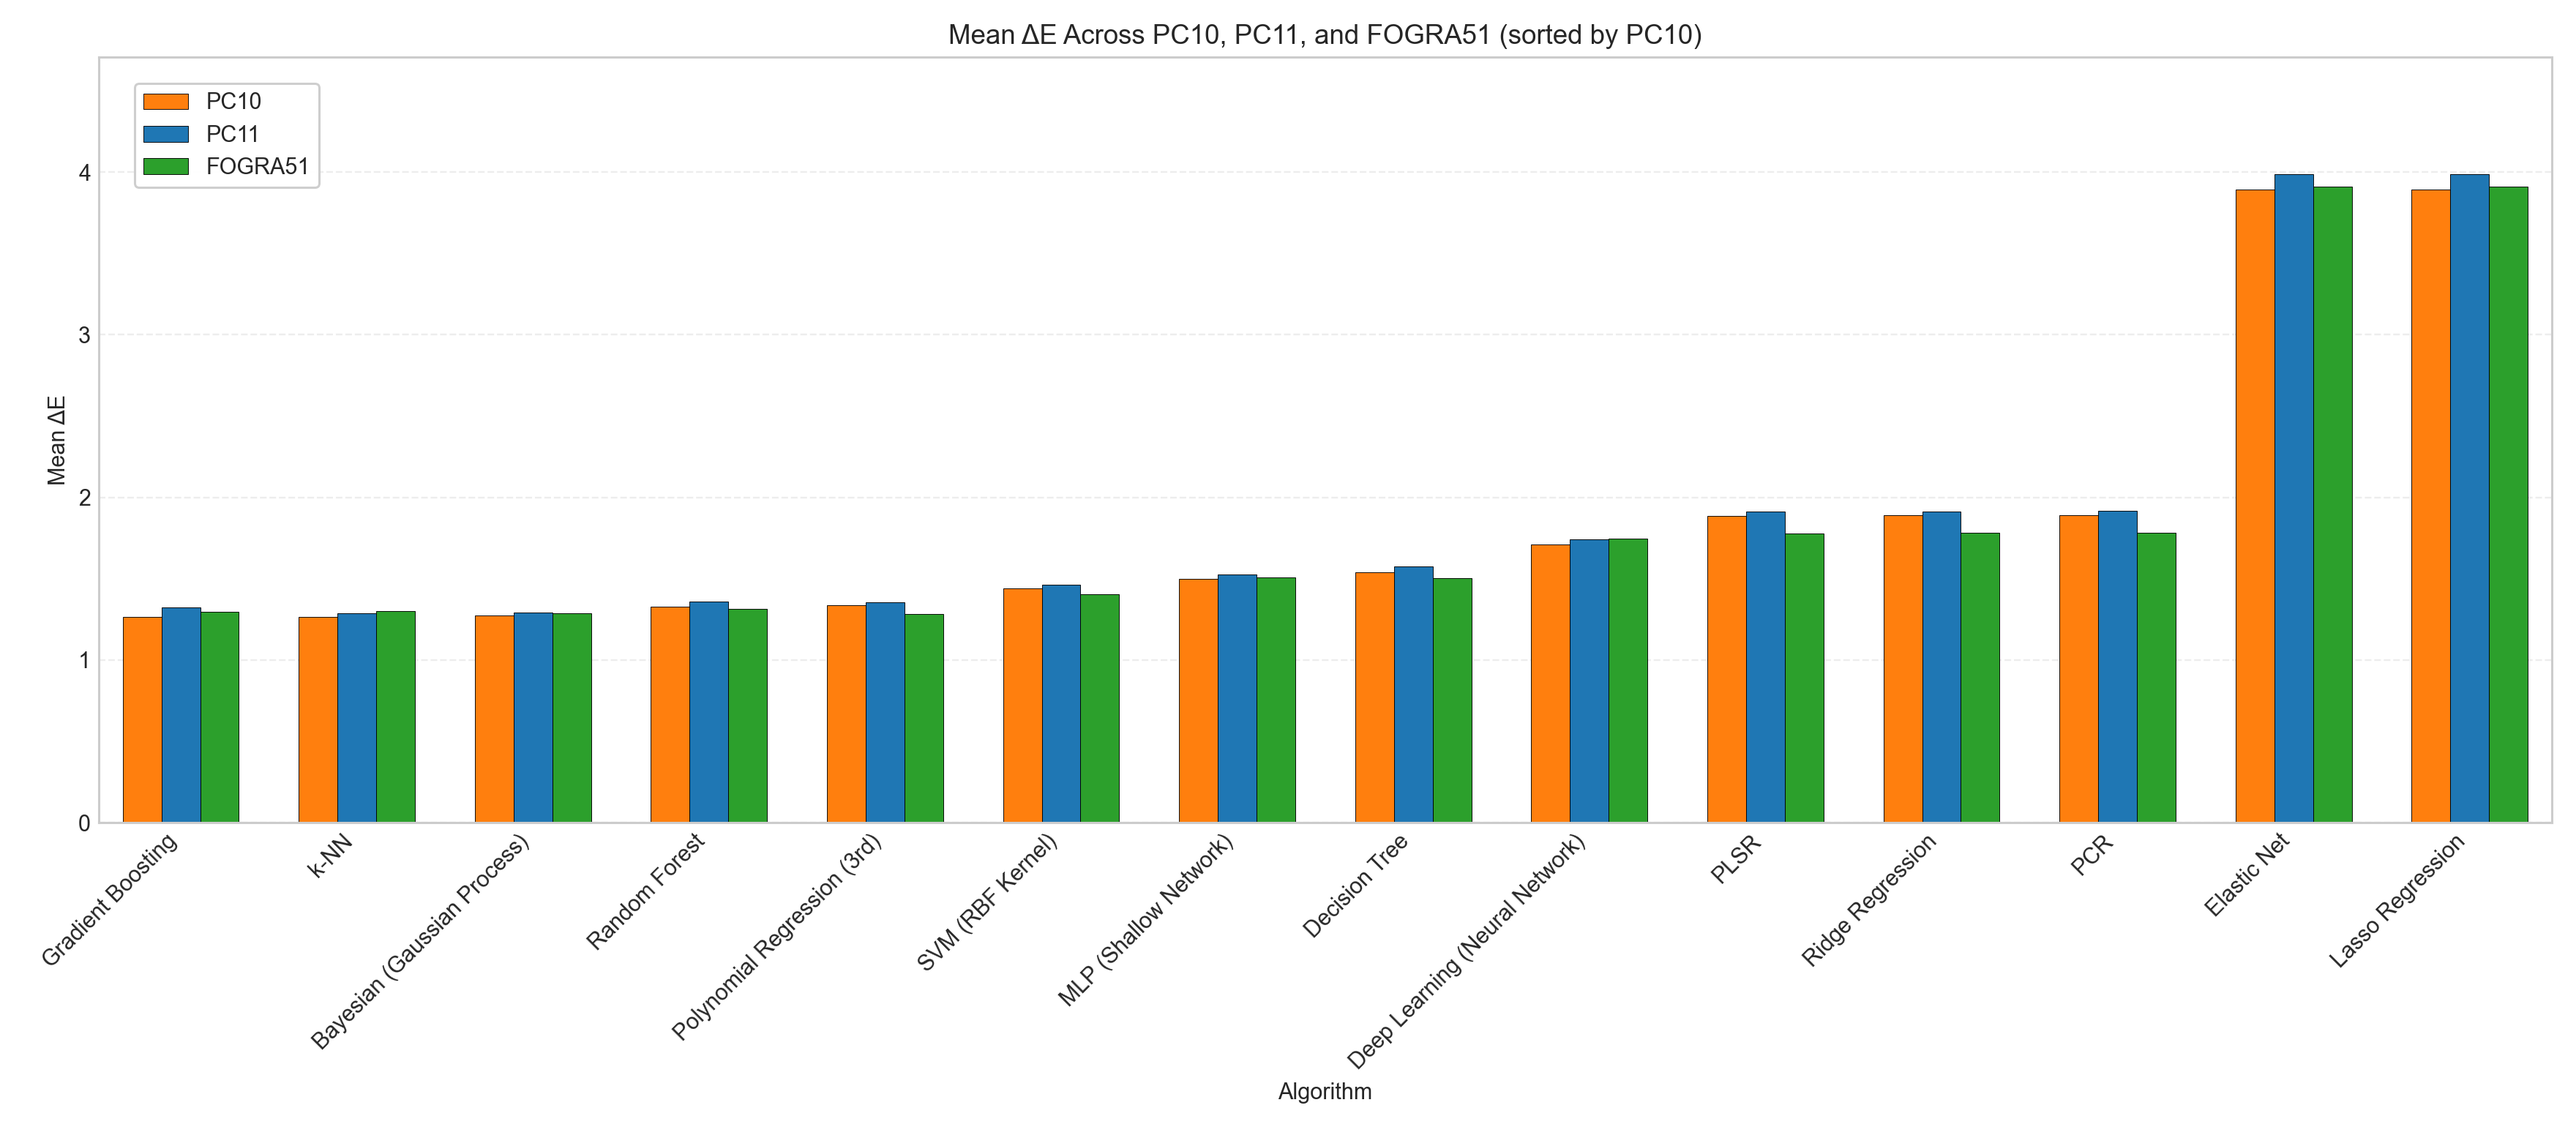
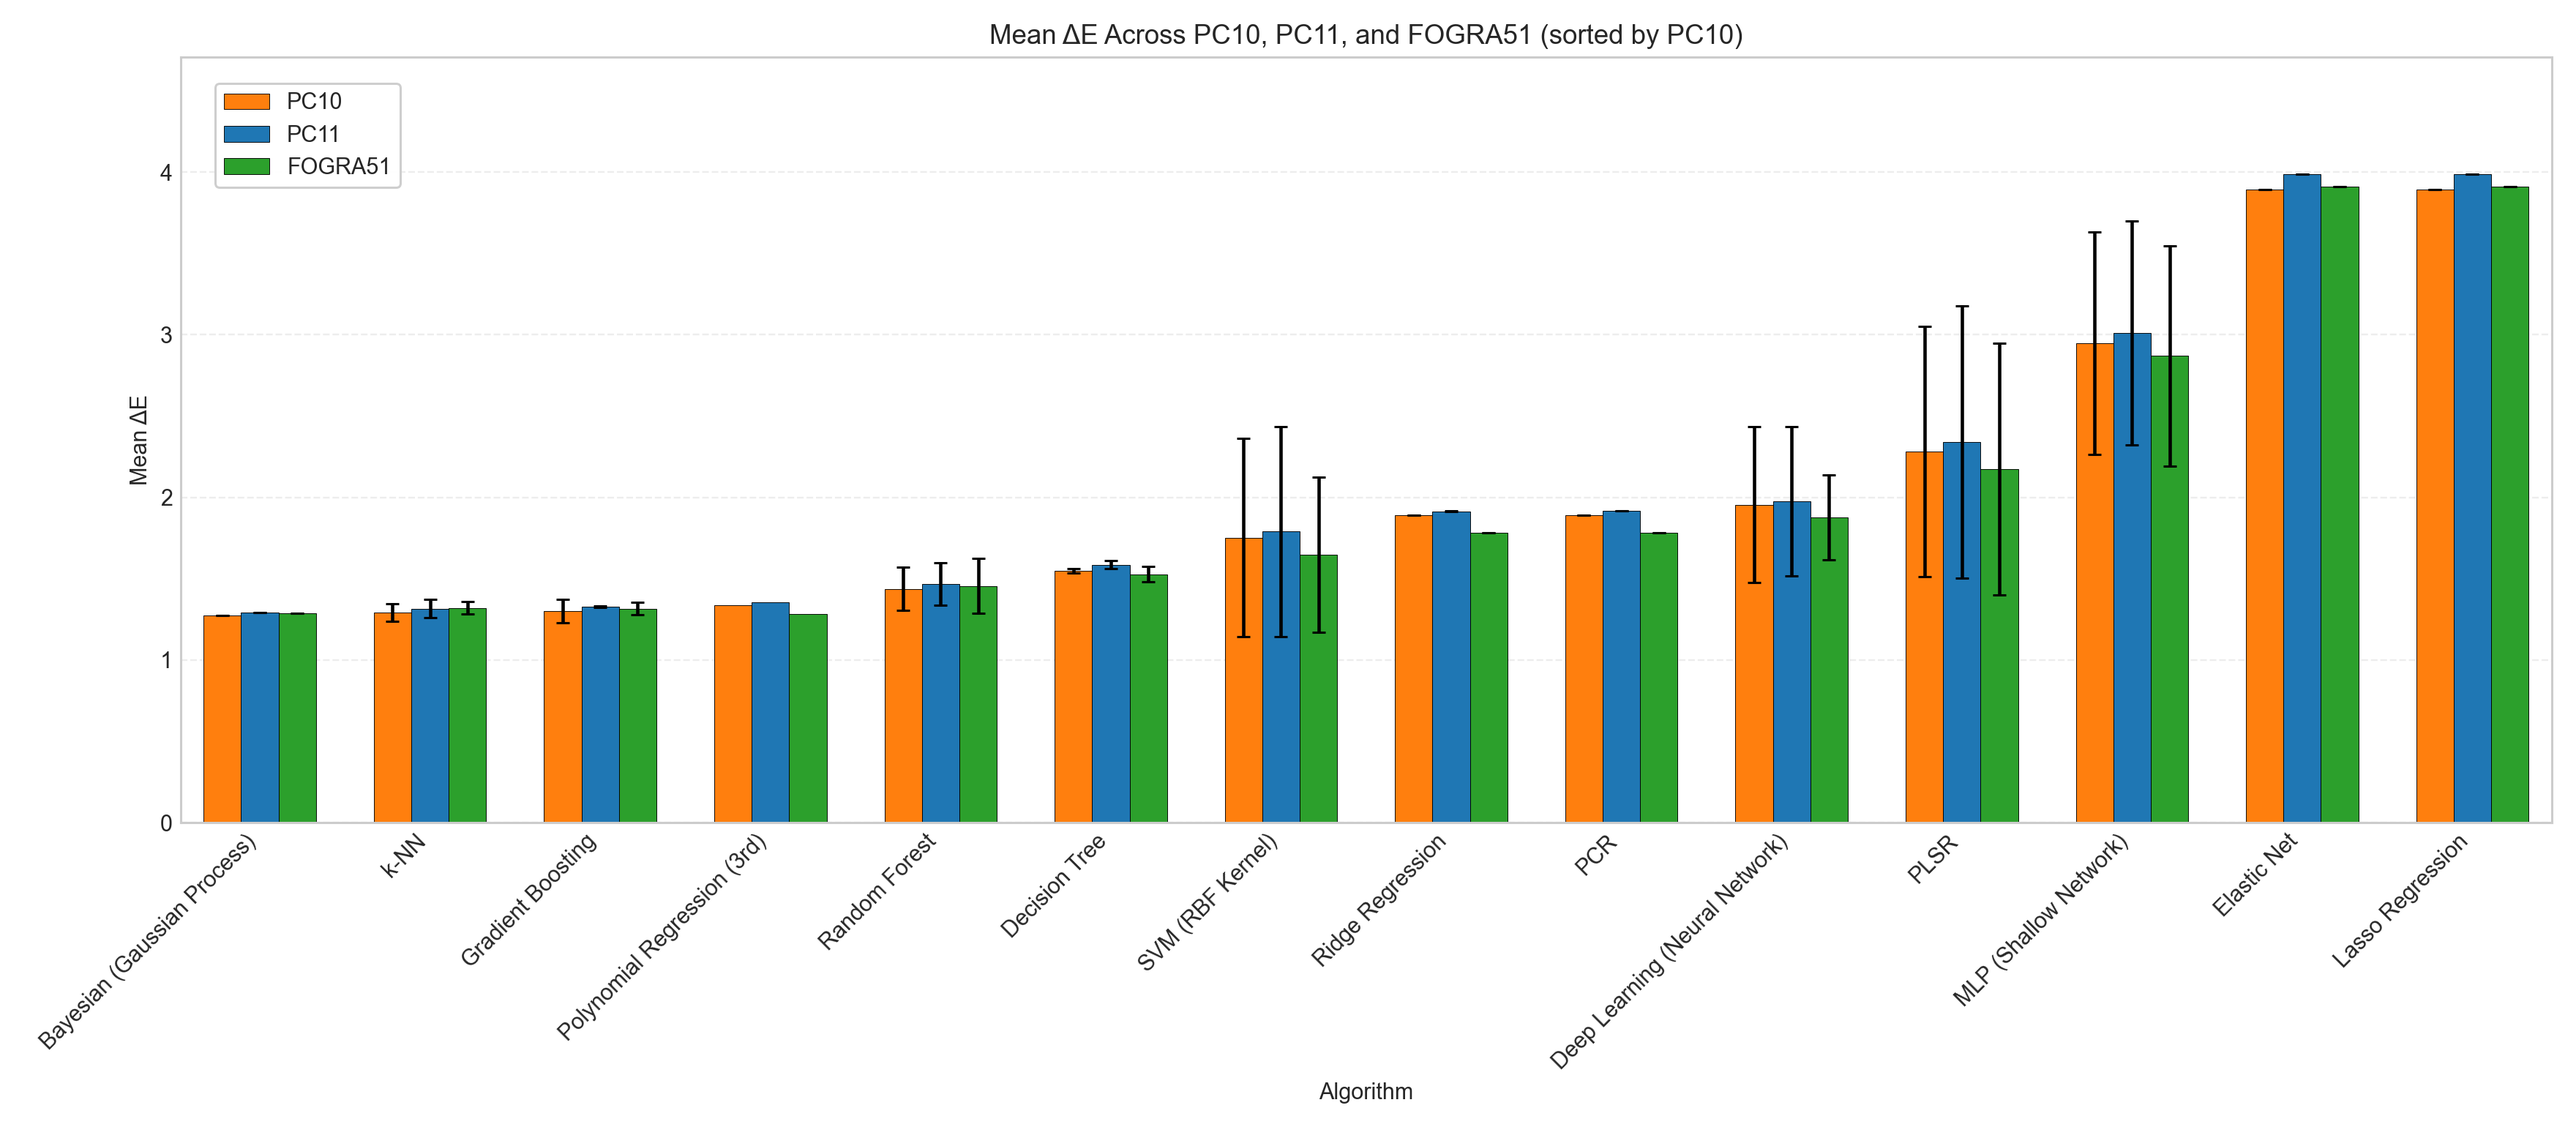
Figure 1: add --error-type (sd|sem|ci95); regenerate with 95% CI error bars sorted by PC10.

diff --git a/anlysis/figure1_mean_across_datasets.py b/anlysis/figure1_mean_across_datasets.py
@@ -1,4 +1,5 @@
 import os
+import math
 import pandas as pd
 import matplotlib.pyplot as plt
 
@@ -6,7 +7,7 @@ import matplotlib.pyplot as plt
 BASE_RESULTS_DIR = os.path.join('main', 'cmy2xyz', 'results')
 # Order for display and CSV: PC10, then PC11, then FOGRA
 DATASETS = ['PC10', 'PC11', 'FOGRA']
-OUT_DIR = 'figures'
+OUT_DIR = os.path.join('figures', 'figure1')
 
 
 # File names per algorithm and display names used in the plot
@@ -80,6 +81,14 @@ def run_mean_from_append(path: str, algo_key: str) -> float:
         return float('nan')
     return float(sub['Mean Error'].mean())
 
+def run_count_from_append(path: str, algo_key: str) -> int:
+    """Number of runs/configs available for the given algorithm key in append file."""
+    if not os.path.exists(path):
+        return 0
+    df = pd.read_csv(path)
+    sub = df[df['Algorithm'] == algo_key]
+    return int(len(sub)) if not sub.empty else 0
+
 def run_std_from_append(path: str, algo_key: str) -> float:
     """Standard deviation of 'Mean Error' across runs for the algorithm key.
     If unavailable, returns NaN."""
@@ -125,7 +134,7 @@ def build_summary(poly_degree: int, aggregate: str = 'best') -> pd.DataFrame:
     return df
 
 
-def save_grouped_bar(df: pd.DataFrame, out_path: str, *, sort: bool = False, sort_by: str | None = None, error_bars: bool = False, aggregate: str = 'best'):
+def save_grouped_bar(df: pd.DataFrame, out_path: str, *, sort: bool = False, sort_by: str | None = None, error_bars: bool = False, aggregate: str = 'best', error_type: str = 'sd'):
     # Optional: rank algorithms by their overall average mean ΔE across datasets
     df = df.copy()
     title_suffix = ""
@@ -160,7 +169,14 @@ def save_grouped_bar(df: pd.DataFrame, out_path: str, *, sort: bool = False, sor
             key = DISPLAY_TO_APPEND_KEY.get(label, label)
             for ds, target in [('PC10', yerr_pc10), ('PC11', yerr_pc11), ('FOGRA', yerr_fogra)]:
                 append_path = os.path.join(BASE_RESULTS_DIR, ds, f"{ds}_append_results.csv")
-                target.append(run_std_from_append(append_path, key))
+                std = run_std_from_append(append_path, key)
+                n = run_count_from_append(append_path, key)
+                if error_type == 'sem' and n > 0:
+                    target.append(std / math.sqrt(n))
+                elif error_type == 'ci95' and n > 0:
+                    target.append(1.96 * std / math.sqrt(n))
+                else:
+                    target.append(std)
 
     # Bars ordered as PC10 (left), PC11 (center), FOGRA (right)
     ax.bar([i - width for i in x], df['PC10'], yerr=yerr_pc10, width=width, label='PC10', color=colors['PC10'], edgecolor='black', linewidth=0.3, capsize=3)
@@ -194,6 +210,7 @@ def main():
     parser.add_argument('--sort-by', choices=['PC11', 'PC10', 'FOGRA', 'overall'], default='overall', help='Column to sort by when --sort is used.')
     parser.add_argument('--poly-degree', type=int, default=3, help='Polynomial regression degree to report (e.g., 3).')
     parser.add_argument('--aggregate', choices=['best', 'run-mean'], default='best', help="Aggregation: 'best' uses min Mean Error per model; 'run-mean' averages Mean Error across runs (append files).")
+    parser.add_argument('--error-type', choices=['sd', 'sem', 'ci95'], default='sd', help='Error bar type used when --error-bars and --aggregate run-mean (sd, sem, or ci95).')
     parser.add_argument('--error-bars', action='store_true', help='Add error bars (std across runs in append files; only with --aggregate run-mean).')
     args = parser.parse_args()
     os.makedirs(OUT_DIR, exist_ok=True)
@@ -205,7 +222,7 @@ def main():
     # Plot PNG
     png_path = os.path.join(OUT_DIR, 'Figure1_Mean_DeltaE_Across_Datasets.png')
     sort_by = None if args.sort_by == 'overall' else args.sort_by
-    save_grouped_bar(df, png_path, sort=args.sort, sort_by=sort_by, error_bars=args.error_bars, aggregate=args.aggregate)
+    save_grouped_bar(df, png_path, sort=args.sort, sort_by=sort_by, error_bars=args.error_bars, aggregate=args.aggregate, error_type=args.error_type)
     print(f"Wrote: {csv_path}\nWrote: {png_path}")
 
 

diff --git a/anlysis/generate_pc10_table_and_plot.py b/anlysis/generate_pc10_table_and_plot.py
@@ -6,7 +6,7 @@ import matplotlib.pyplot as plt
 PC10_DIR = os.path.join('main', 'cmy2xyz', 'results', 'PC10')
 APPEND_CSV = os.path.join(PC10_DIR, 'PC10_append_results.csv')
 POLY_CSV = os.path.join(PC10_DIR, 'polynomial_regression_results.csv')
-OUT_DIR = os.path.join('figures')
+OUT_DIR = os.path.join('figures', 'pc10')
 
 
 # Mapping from repo algorithm keys to display names used in the paper table

diff --git a/anlysis/figure2_selected_top_models.py b/anlysis/figure2_selected_top_models.py
@@ -6,7 +6,7 @@ import matplotlib.pyplot as plt
 BASE_RESULTS_DIR = os.path.join('main', 'cmy2xyz', 'results')
 # Order datasets PC10 first for consistency
 DATASETS = ['PC10', 'PC11', 'FOGRA']
-OUT_DIR = 'figures'
+OUT_DIR = os.path.join('figures', 'figure2')
 
 
 # Selected top models; support 'best' and 'run-mean' aggregations
